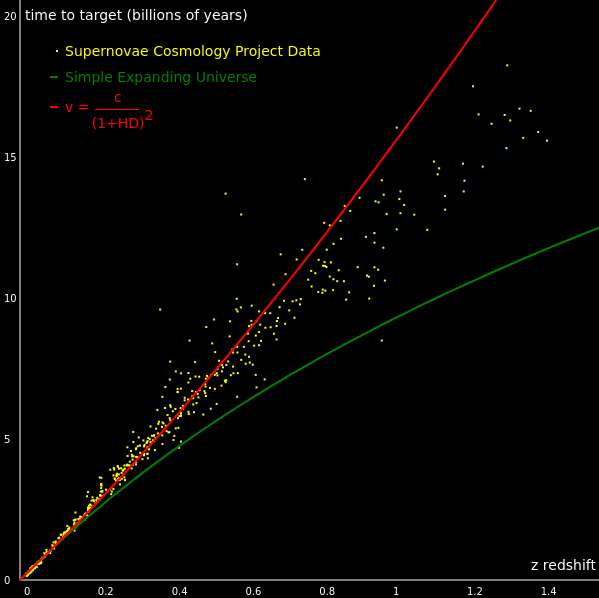
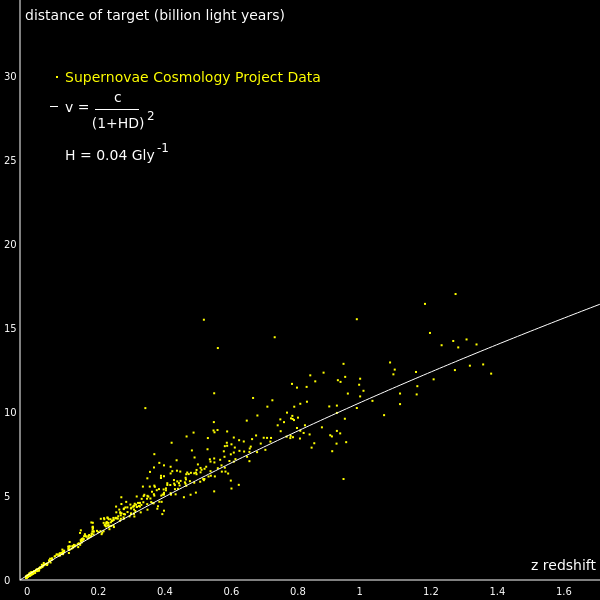
supernovae images

diff --git a/other/supernovae.htm b/other/supernovae.htm
@@ -84,8 +84,8 @@
     <br>    
     Y-axis: 
     <select id="graph-y-axis">
+        <option>distance of target (billion light years)</option>
         <option>time to target (billions of years)</option>
-        <option>reached distance of target (billion light years)</option>
         
     </select>
     <br>
@@ -184,7 +184,7 @@ var black = true
 
         ctxB.fillStyle = "yellow"
         for (var sn of snData) {
-            if (yAxis.selectedIndex === 1) {
+            if (yAxis.selectedIndex === 0) {
                 ctxB.fillRect(offset + sn.z * 10000 * zoomG, graph.height - offset - sn.d * zoomGY, 2, 2)
             }
             else {
@@ -204,13 +204,21 @@ var black = true
         ctxB.fillText("Simple Expanding Universe", offset + 5 + 40, offset + 62)
         */
         ctxB.fillStyle = "white"
-        ctxB.fillRect(offset + 30, offset + 86, 8, 2)
+        ctxB.fillRect(offset + 30, offset + 86, 8, 1)
         ctxB.fillStyle = "white"
         ctxB.fillText("v =", offset + 5 + 40, offset + 92)
         ctxB.fillText("           c", offset + 5 + 40, offset + 82)
         ctxB.fillRect(offset + 75, offset + 89, 44, 1)
         ctxB.fillText("      (1+HD)", offset + 5 + 40, offset + 108)
-        ctxB.fillText("            2", offset + 5 + 66, offset + 100)
+
+        ctxB.fillText("H = 0.04 Gly", offset + 5 + 40, offset + 140)
+
+        ctxB.font = "12px sans-serif"
+
+        ctxB.fillText("2", offset + 5 + 122, offset + 100)
+        ctxB.fillText("-1", offset + 5 + 132, offset + 132)
+        
+        ctxB.font = "14px sans-serif"
 
         ctxB.fillStyle = !black ? "black" : "white"
         ctxB.textAlign = "right"
@@ -240,7 +248,7 @@ var black = true
     function drawGraph() {
         
         graph.width = graph.width 
-        ctxG.lineWidth = 2
+        ctxG.lineWidth = 1
         for (dgm of models) {
             ctxG.strokeStyle = dgm.color
             ctxG.beginPath()
@@ -250,41 +258,13 @@ var black = true
 
                     drawx = (dgt.z * 10000) || ((1 - dgt.dx) / dgt.dx) * 10000
                     
-                    if (yAxis.selectedIndex === 0) {
+                    if (yAxis.selectedIndex === 1) {
                         drawy = dgt.hit
                     }
-                    else if (yAxis.selectedIndex === 1) {
+                    else if (yAxis.selectedIndex === 0) {
                         // show the difference in time with a static model
                         drawy = dgt.hitX
                     }
-                    else if (yAxis.selectedIndex === 2) {
-                        // show the ratio with a static model
-                        drawy = (dgt.hit / dgt.start - 1) * 10000
-                    }
-                    else if (yAxis.selectedIndex === 3) {
-                        // show the inverse ratio with a static model
-                        drawy = (1 - dgt.start / dgt.hit) * 10000
-
-                    }
-                    else if (yAxis.selectedIndex === 4) {
-                        // v_light or v_target
-                        drawy = dgt.dx * 10000
-
-                    }
-                    else if (yAxis.selectedIndex === 5) {
-                        // z = (freq_emit - freq_observes) / freq_observer
-                        drawy = (dgt.z * 10000) //|| ((1 - dgt.dx) / dgt.dx) * 10000
-
-                    }
-                    else if (yAxis.selectedIndex === 6) {
-                        drawy = dgt.start
-
-                    }
-                    else if (yAxis.selectedIndex === 7) {
-                        drawy = dgt.hitX
-
-                    }
-
                     ctxG.lineTo(offset + drawx * zoomG, -offset + graph.height - drawy * zoomGY)
 
                 }

diff --git a/index.htm b/index.htm
@@ -124,7 +124,7 @@
 
         <p>
             In this model, H<sub>0</sub> is still constant throughout time, however it has different units. 
-            The line shown (red) is using a value of H<sub>0</sub>=0.04 billion Gly<sup>-1</sup>.
+            The line shown is using a value of H<sub>0</sub>=0.04 Gly<sup>-1</sup>.
             The inverse distance and distance units cancel out in the denominator.
         </p>
 
